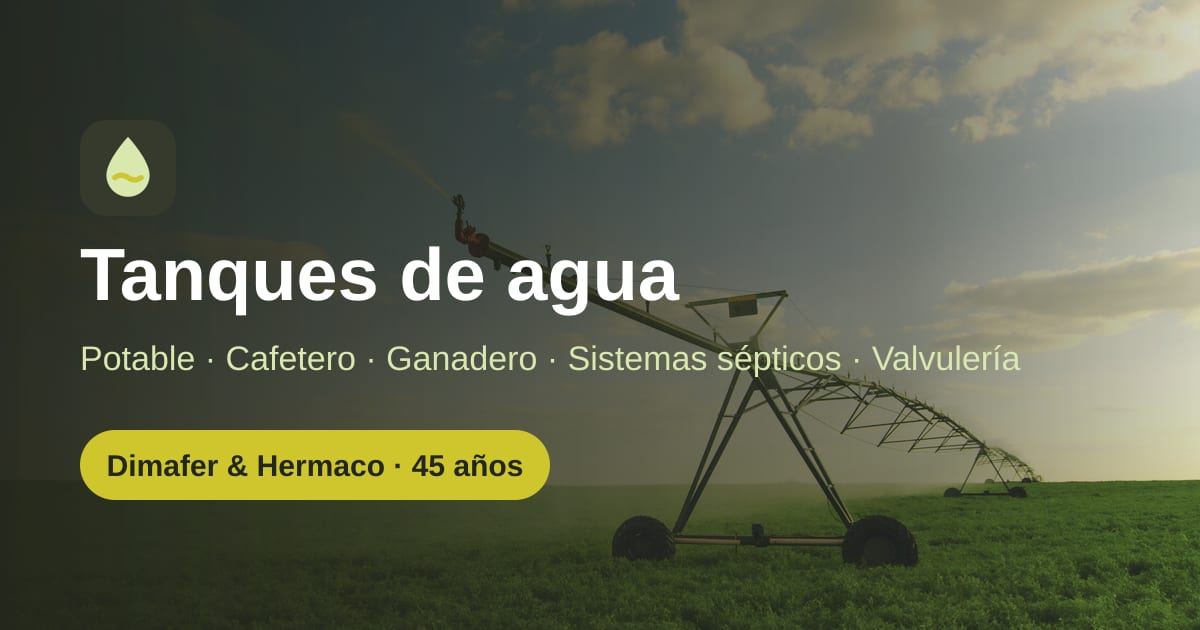
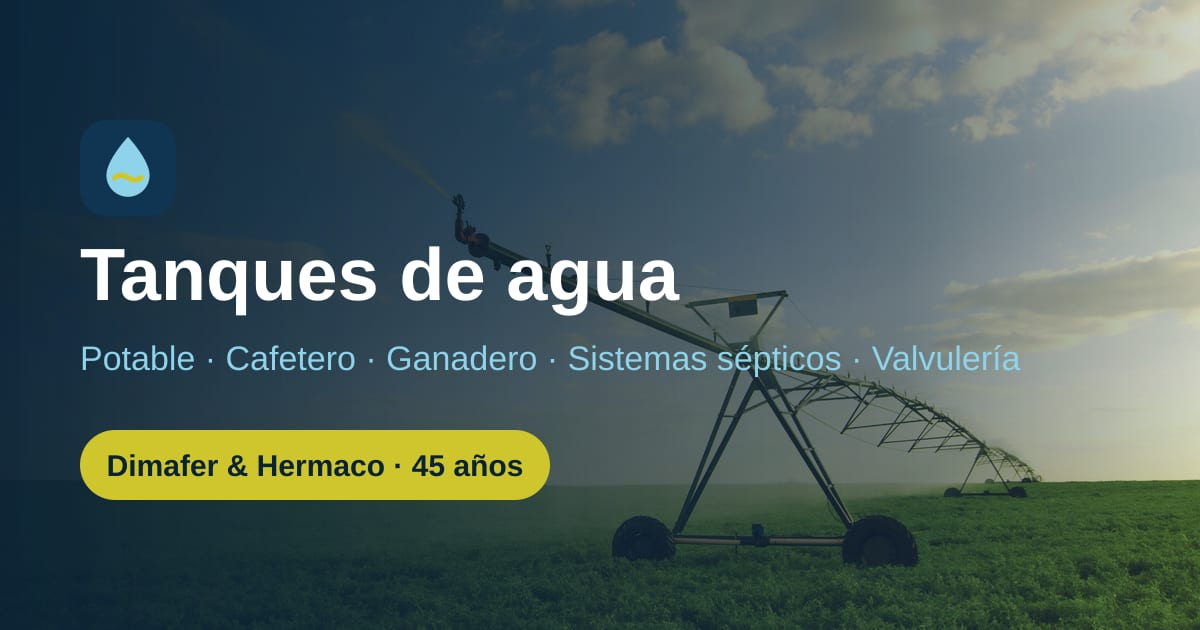
Paleta azul: azul agua como color principal, mostaza en botones; íconos y OG regenerados
Claude-Session: https://claude.ai/code/session_01JZzUt2t68Re53iJR19AyGL

diff --git a/src/styles/global.css b/src/styles/global.css
@@ -4,15 +4,15 @@
    TODO: ajustar --brand-* a los colores exactos de la marca en Wix.
    ========================================================== */
 :root {
-  /* Paleta de la marca (tomada del sitio en Wix): lima, oliva y mostaza */
-  --brand-900: #23261c; /* oliva muy oscuro: fondos oscuros */
-  --brand-800: #363a2c; /* oliva oscuro (Wix color_14) */
-  --brand-700: #4c5a1f; /* verde oliva para enlaces y títulos */
-  --brand-600: #5d6e22; /* verde principal (botones secundarios) */
-  --brand-500: #6d7457; /* oliva medio (Wix color_13, barra de menú) */
-  --brand-100: #e9f1cf; /* lima claro */
-  --brand-50: #f5f9e8;
-  --lime-300: #d9e8ae; /* lima (Wix color_11, fondo) */
+  /* Paleta: azul agua como color principal + mostaza para botones */
+  --brand-900: #0a2236; /* azul marino: fondos oscuros */
+  --brand-800: #0f3552;
+  --brand-700: #125a86;
+  --brand-600: #1679a6;
+  --brand-500: #4f7a96;
+  --brand-100: #e2f1f8;
+  --brand-50: #f2f8fc;
+  --lime-300: #8fd3ea; /* celeste claro */
   --mustard-500: #cfc62d; /* mostaza (Wix: botones) */
   --mustard-600: #b8af1c;
   /* Acento "agua": solo en enlaces, íconos y detalles (no en botones) */
@@ -24,17 +24,17 @@
   --accent: #25d366; /* WhatsApp */
   --accent-dark: #128c4a;
 
-  --ink: #1d2016;
-  --ink-soft: #565c49;
-  --line: #e1e5d3;
+  --ink: #0f1d2a;
+  --ink-soft: #4a5b6b;
+  --line: #dbe6ee;
   --bg: #ffffff;
-  --bg-soft: #f6f8ee;
+  --bg-soft: #f3f8fb;
 
   --radius-sm: 10px;
   --radius: 18px;
   --radius-lg: 28px;
-  --shadow-sm: 0 1px 2px rgb(35 38 28 / 0.06), 0 2px 8px rgb(35 38 28 / 0.06);
-  --shadow: 0 12px 32px -12px rgb(35 38 28 / 0.3);
+  --shadow-sm: 0 1px 2px rgb(10 34 54 / 0.06), 0 2px 8px rgb(10 34 54 / 0.06);
+  --shadow: 0 12px 32px -12px rgb(10 34 54 / 0.3);
   --container: 1180px;
   --gutter: clamp(16px, 4vw, 32px);
 
@@ -132,7 +132,7 @@ p {
   background: var(--bg-soft);
 }
 .section--dark {
-  background: radial-gradient(1200px 500px at 80% -10%, #4c5a1f 0%, transparent 60%), var(--brand-900);
+  background: radial-gradient(1200px 500px at 80% -10%, #135d8e 0%, transparent 60%), var(--brand-900);
   color: #e4e8d6;
 }
 .section--dark h2,

diff --git a/src/pages/manifest.webmanifest.ts b/src/pages/manifest.webmanifest.ts
@@ -11,7 +11,7 @@ export const GET: APIRoute = () =>
       start_url: '/',
       display: 'standalone',
       background_color: '#ffffff',
-      theme_color: '#363a2c',
+      theme_color: '#0f3552',
       icons: [
         { src: '/icon-192.png', sizes: '192x192', type: 'image/png' },
         { src: '/icon-512.png', sizes: '512x512', type: 'image/png' },
